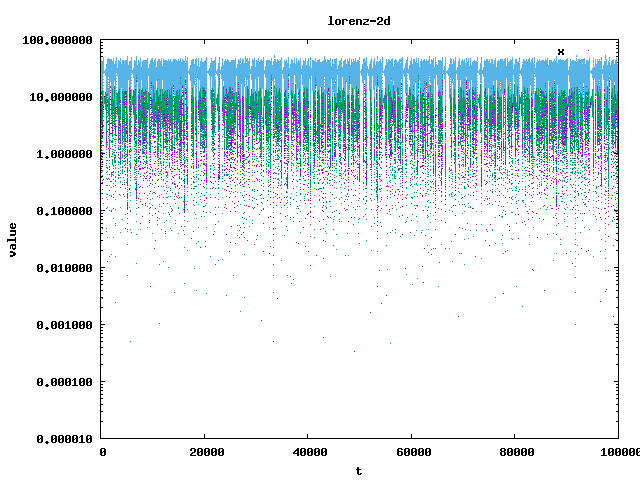
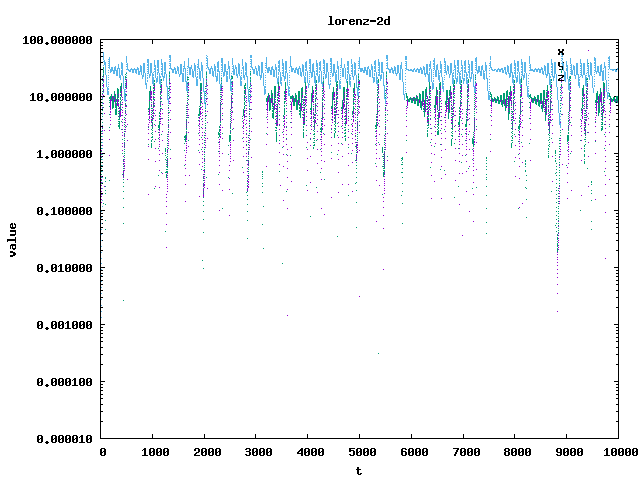
update lorenz

diff --git a/main.go b/main.go
@@ -55,7 +55,7 @@ func p3(points []plotter.XYZ, name string, x string, y string, z string) error {
 		ps[1] = append(ps[1], v.Y)
 		ps[2] = append(ps[2], v.Z)
 
-		log.Printf("%v %v %v", v.X, v.Y, v.Z)
+		//log.Printf("%v %v %v", v.X, v.Y, v.Z)
 	}
 
 	//plot 3D
@@ -65,16 +65,10 @@ func p3(points []plotter.XYZ, name string, x string, y string, z string) error {
 		return fmt.Errorf("failed to create plot: %v", err)
 	}
 
-	err = plot.AddPointGroup("points", "dots", ps)
-	if err != nil {
-		return fmt.Errorf("failed to add point group: %v", err)
-	}
-
 	err = plot.SetTitle(name)
 	if err != nil {
 		return fmt.Errorf("failed to set title: %v", err)
 	}
-
 	err = plot.SetXLabel(x)
 	if err != nil {
 		return fmt.Errorf("failed to set x label: %v", err)
@@ -88,6 +82,13 @@ func p3(points []plotter.XYZ, name string, x string, y string, z string) error {
 		return fmt.Errorf("failed to set z label: %v", err)
 	}
 
+	//plot 3D
+	err = plot.AddPointGroup("points", "dots", [][]float64{
+		ps[0], ps[1], ps[2],
+	})
+	if err != nil {
+		return fmt.Errorf("failed to add point group: %v", err)
+	}
 	err = plot.SavePlot("points-" + name + ".png")
 	if err != nil {
 		return fmt.Errorf("failed to save plot: %v", err)

diff --git a/lorenz.go b/lorenz.go
@@ -1,14 +1,12 @@
 package main
 
 import (
-	"math"
-
 	"gonum.org/v1/plot/plotter"
 )
 
 func lorenz() error {
 
-	const time = 1000
+	const time = 100
 	const step = 0.01
 
 	points := []plotter.XYZ{}
@@ -20,14 +18,12 @@ func lorenz() error {
 	for t := 0 * step; t <= time; t += step {
 		x, y, z = l(step, x, y, z)
 
-		if !math.IsInf(x, 0) && !math.IsNaN(x) && !math.IsInf(y, 0) && !math.IsNaN(y) && !math.IsInf(z, 0) && !math.IsNaN(z) {
-			points = append(points, plotter.XYZ{
-				X: x,
-				Y: y,
-				Z: z,
-			})
-			continue
-		}
+		points = append(points, plotter.XYZ{
+			X: x,
+			Y: y,
+			Z: z,
+		})
+
 	}
 
 	return p3(points, "lorenz", "x", "y", "z")
@@ -36,7 +32,7 @@ func lorenz() error {
 func l(t, x, y, z float64) (float64, float64, float64) {
 
 	const q = 10.0
-	const p = 28.0
+	const p = 30.0
 	const B = 8.0 / 3.0
 
 	dx := t * (q * (y - x))
